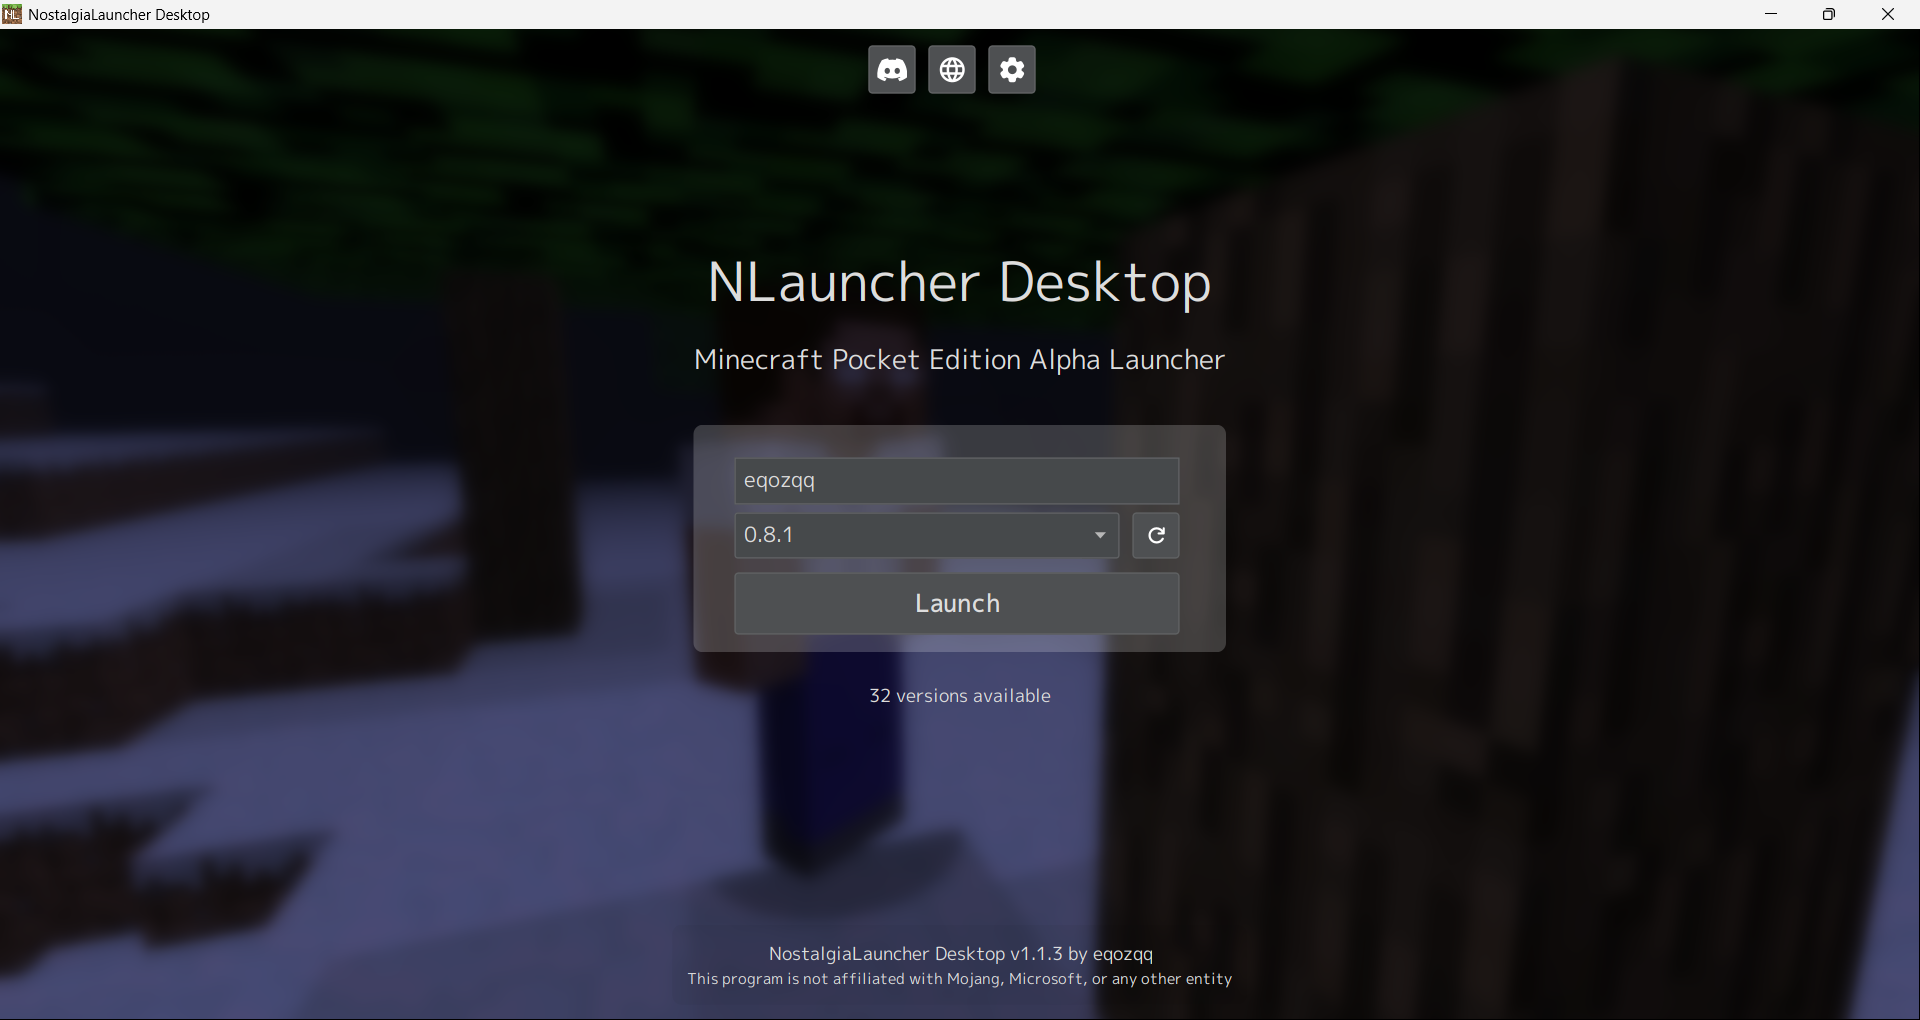
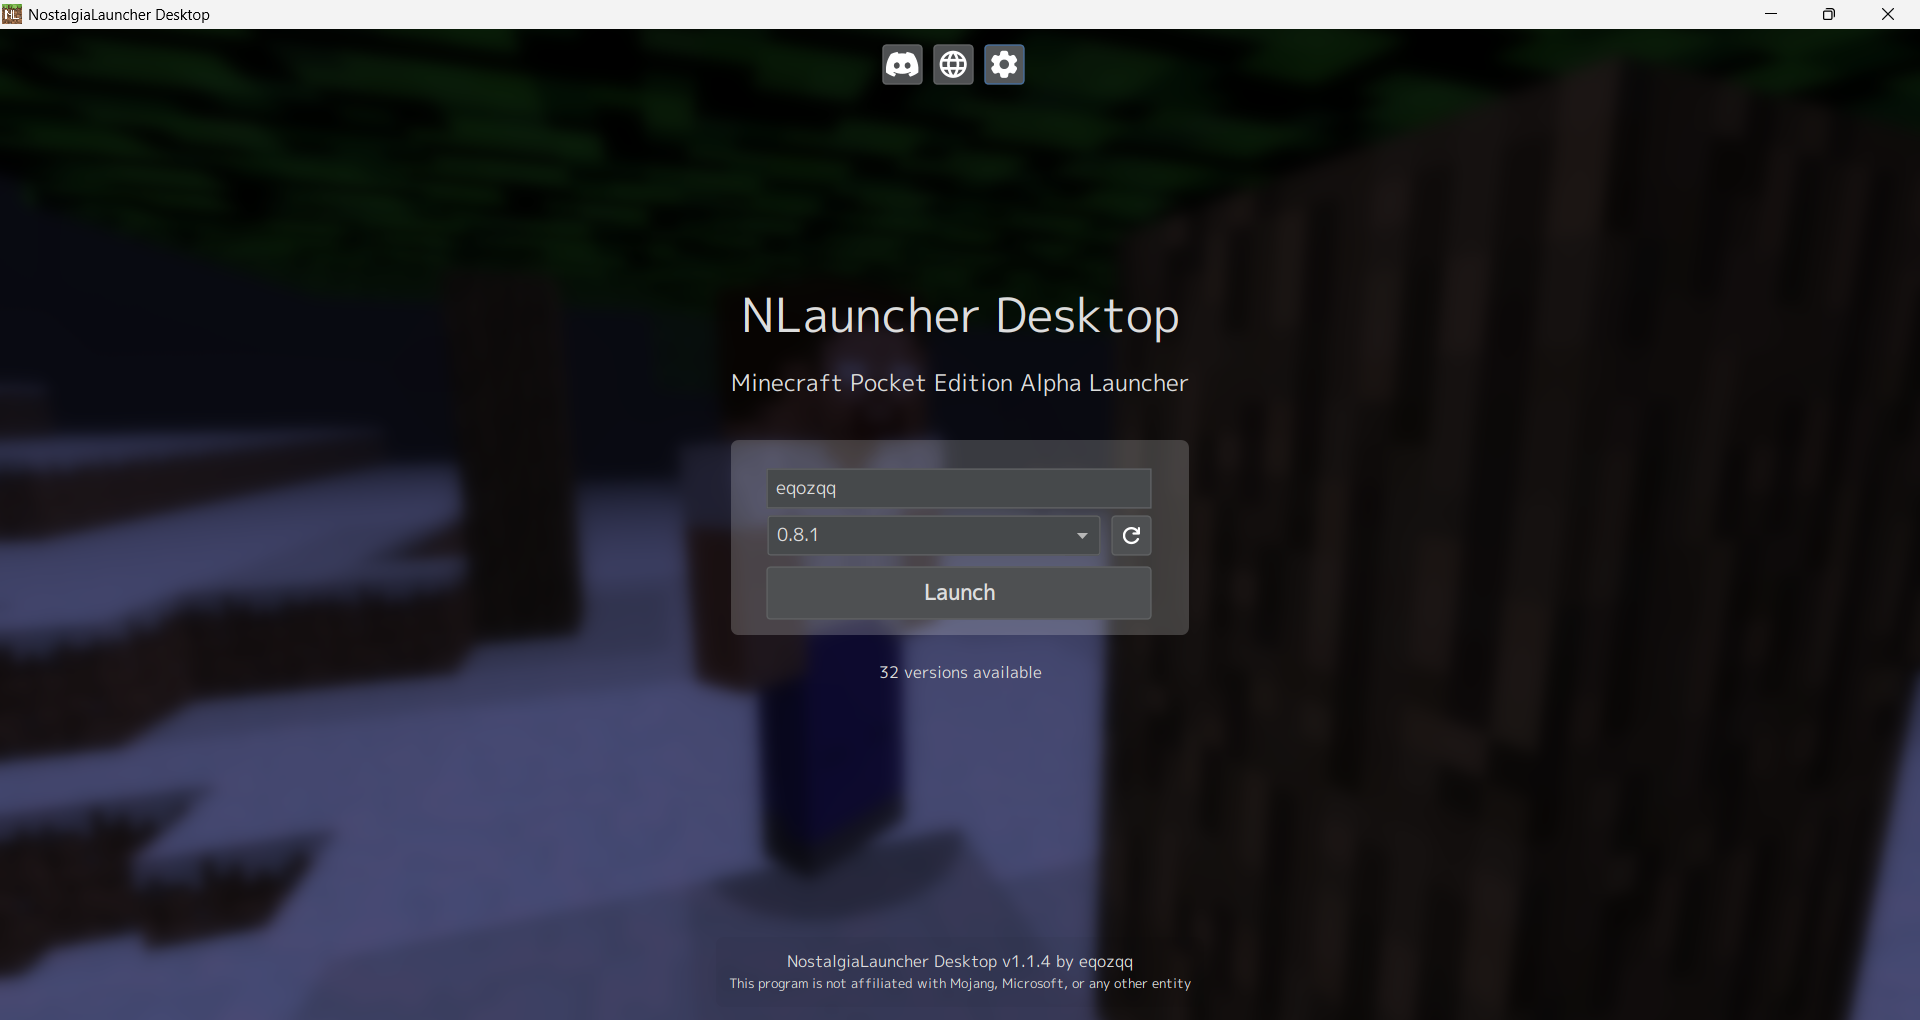
1.1.4

Changed region(s): [[0.3438, 0.2431, 0.6562, 0.699], [0.375, 0.9118, 0.625, 0.9725], [0.4375, 0.0304, 0.5625, 0.0912]]

diff --git a/src/main/java/net/eqozqq/nostalgialauncherdesktop/NostalgiaLauncherDesktop.java b/src/main/java/net/eqozqq/nostalgialauncherdesktop/NostalgiaLauncherDesktop.java
@@ -54,11 +54,11 @@ public class NostalgiaLauncherDesktop extends JFrame {
     private String lastPlayedVersionName;
     private double scaleFactor;
     private String themeName;
-    private static final String CURRENT_VERSION = "1.1.3";
+    private static final String CURRENT_VERSION = "1.1.4";
 
     private static final int COMPONENT_WIDTH = 300;
     private static final String DEFAULT_VERSIONS_URL = "https://raw.githubusercontent.com/NLauncher/components/main/versions.json";
-    private static final String DEFAULT_LAUNCHER_URL = "https://github.com/NLauncher/components/raw/refs/main/ninecraft.zip";
+    private static final String DEFAULT_LAUNCHER_URL = "https://github.com/NLauncher/components/raw/refs/heads/main/ninecraft.zip";
 
     public NostalgiaLauncherDesktop() {
         versionManager = new VersionManager();

diff --git a/README.md b/README.md
@@ -2,7 +2,7 @@
 Minecraft PE Alpha versions launcher for Windows
 
 ## How it works
-NostalgiaLauncher Desktop uses [Ninecraft](https://github.com/MCPI-Revival/Ninecraft) to run Minecraft PE versions.
+NostalgiaLauncher Desktop uses [Ninecraft](https://github.com/MCPI-Revival/Ninecraft) to run Minecraft PE versions (the default executable for launching versions).
 
 ## Screenshot
 ![Launcher Screenshot](screenshot.png)
